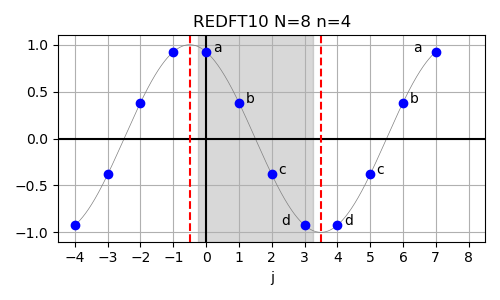
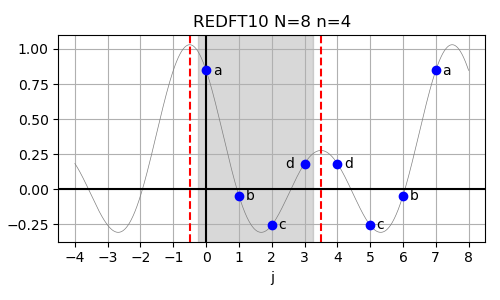
fixed REDFT00 and REDFT10 examples

diff --git a/img/plot_1d_redft_examples.py b/img/plot_1d_redft_examples.py
@@ -11,8 +11,6 @@ from numpy.random import default_rng
 import matplotlib.pyplot as plt
 from matplotlib.ticker import MaxNLocator
 
-#%% REDFT00 
-
 # compute the REDFT00 as defined in the FFTW reference manual
 def redft00(arr):
     n = len(arr)
@@ -24,14 +22,53 @@ def redft00(arr):
             out[k] += 2.0 * arr[j] * np.cos(np.pi*j*k/(n-1))
     return out
 
+# compute the REDFT10 as defined in the FFTW reference manual
+def redft10(arr):
+    n = len(arr)
+    out = np.zeros([n])
+    for k in range(n):
+        for j in range(n):
+            out[k] += 2.0 * arr[j] * np.cos(np.pi*(j+0.5)*k/n)
+    return out
+
+# compute the REDFT01 as defined in the FFTW reference manual
+def redft01(arr):
+    n = len(arr)
+    out = np.zeros([n])
+    for k in range(n):
+        out[k] += arr[0]
+        for j in range(1, n):
+            out[k] += 2.0 * arr[j] * np.cos(np.pi*j*(k+0.5)/n)
+    return out
+
 # evaluate the REDFT00 at all points given in x
 def eval_redft00(arr, x):
+    n = len(arr)
     y = np.zeros_like(x)
     y += arr[0]
     for j in range(1,n-1):
         y += 2.0*arr[j]*np.cos(np.pi*j*x)
     y += arr[-1]*np.cos(np.pi*(n-1)*x)
     return y
+
+# evaluate the REDFT10 at all points given in x
+def eval_redft10(arr, x):
+    n = len(arr)
+    y = np.zeros_like(x)
+    for j in range(n):
+        y += 2.0*arr[j]*np.cos(np.pi*(j+0.5)*x)
+    return y
+
+# evaluate the REDFT01 at all points given in x
+def eval_redft01(arr, x):
+    n = len(arr)
+    y = np.zeros_like(x)
+    y += arr[0]
+    for j in range(1, n):
+        y += 2.0*arr[j]*np.cos(np.pi*j*(x+0.5/n))
+    return y
+
+#%% REDFT00 
 
 # input size for REDFT00
 n = 5
@@ -41,22 +78,22 @@ N = 2*(n-1)
 
 # random Fourier coefficients
 rng = default_rng(seed=42)
-r2r_in = rng.uniform(size=n)
+r2r_out = rng.uniform(size=n)
 
-# compute output of REDFT00
-r2r_out = redft00(r2r_in)/n
+# compute input of REDFT00 by REDFT00 (the inverse of REDFT00)
+r2r_in = redft00(r2r_out)/n
 
 # extend to equivalent DFT size
-full_out_x = np.arange(n, 2*n-2)
-full_out_y = np.zeros([n-2])
-for i in range(n-2):
+full_in_x = np.arange(n, N)
+full_in_y = np.zeros([N-n])
+for i in range(N-n):
     # even symmetry around n-1
-    full_out_y[i] = r2r_out[-i-2]
+    full_in_y[i] = r2r_in[-i-2]
 
 # sample at finer intervals
 nFine = 1024
 x = np.linspace(-n+1, N, nFine)
-y = eval_redft00(r2r_in, x/(n-1))/n
+y = eval_redft00(r2r_out, x/(n-1))/n
 
 plt.figure(figsize=(5,3))
 
@@ -71,18 +108,18 @@ plt.axvline(n-1, ls='--', color='r')
 # highlight array contents
 plt.axvspan(0-0.25, (n-1)+0.25, alpha=0.3, color='gray')
 
-# plot actual REDFT00 output
-plt.plot(r2r_out, 'bo')
+# plot actual REDFT00 input
+plt.plot(r2r_in, 'bo')
 
 # label individual points
 for i in range(n):
-    plt.text(i+0.2, r2r_out[i]-0.03, chr(ord("a")+i))
+    plt.text(i+0.2, r2r_in[i]-0.03, chr(ord("a")+i))
 
 # plot data extending REDFT00 to full DFT
-plt.plot(full_out_x, full_out_y, 'bo')
+plt.plot(full_in_x, full_in_y, 'bo')
 
 for i in range(n-2):
-    plt.text(full_out_x[i]+0.2, full_out_y[i]-0.03, chr(ord("a")+(n-2-i)))
+    plt.text(full_in_x[i]+0.2, full_in_y[i]-0.03, chr(ord("a")+(n-2-i)))
 
 # only integer xaxis ticks at intervals of 1
 plt.gca().xaxis.set_major_locator(MaxNLocator(steps=(1,10), integer=True))
@@ -95,10 +132,34 @@ plt.tight_layout()
 plt.savefig("redft00.png")
 
 #%% REDFT10
-n = int(N/2)
+n = 4
+
+# logical size of equivalent DFT (for REDFT10)
+N = 2*n
+
+# random Fourier coefficients
+rng = default_rng(seed=40)
+r2r_out = rng.uniform(size=n)
+
+# compute input of REDFT10 by using REDFT01 (the inverse of REDFT10)
+r2r_in = redft01(r2r_out)/n
+
+# extend to equivalent DFT size
+full_in_x = np.arange(n, N)
+full_in_y = np.zeros([N-n])
+for i in range(N-n):
+    # even symmetry around n-0.5
+    full_in_y[i] = r2r_in[-i-1]
+
+# sample "inputs" at finer intervals
+nFine = 1024
+x = np.linspace(-n, N, nFine)
+y = eval_redft01(r2r_out, x/n)/n
 
 plt.figure(figsize=(5,3))
-plt.plot(t_ref[int(n_ref/N/2):-int(n_ref/N/2)]*N-0.5, y_ref[int(n_ref/N/2):-int(n_ref/N/2)], '-', color='gray', linewidth=0.5)
+
+plt.plot(x, y, '-', color='gray', linewidth=0.5)
+
 plt.axhline(0, ls='-', color='k')
 plt.axvline(0, ls='-', color='k')
 
@@ -109,17 +170,17 @@ plt.axvline(n-0.5, ls='--', color='r')
 # highlight array contents
 plt.axvspan(0-0.25, (n-1)+0.25, alpha=0.3, color='gray')
 
-plt.plot(t, y1, 'bo')
+plt.plot(r2r_in, 'bo')
 
-for i in range(N):
-    if i==n-1:
-        plt.text(t[int(i+N/2)]-0.7, y1[int(i+N/2)], chr(ord("a")+i))
-    elif i==N-1:
-        plt.text(t[int(i+N/2)]-0.7, y1[int(i+N/2)], chr(ord("a")+(N-i-1)))
-    elif i>=n:
-        plt.text(t[int(i+N/2)]+0.2, y1[int(i+N/2)], chr(ord("a")+(N-i-1)))
-    else:
-        plt.text(t[int(i+N/2)]+0.2, y1[int(i+N/2)], chr(ord("a")+i))
+# label individual points
+for i in range(n-1):
+    plt.text(i+0.2, r2r_in[i]-0.03, chr(ord("a")+i))
+plt.text(n-1-0.6, r2r_in[n-1]-0.03, chr(ord("a")+n-1))
+
+plt.plot(full_in_x, full_in_y, 'bo')
+
+for i in range(n):
+    plt.text(full_in_x[i]+0.2, full_in_y[i]-0.03, chr(ord("a")+(n-1-i)))
 
 # only integer xaxis ticks
 plt.gca().xaxis.set_major_locator(MaxNLocator(steps=(1,10), integer=True))
@@ -133,67 +194,67 @@ plt.savefig("redft10.png")
 
 #%% REDFT01
 
-plt.figure(figsize=(5,3))
-plt.plot(t_ref*N, y_ref_2, '-', color='gray', linewidth=0.5)
-plt.axhline(0, ls='-', color='k')
-plt.axvline(0, ls='-', color='k')
+# plt.figure(figsize=(5,3))
+# plt.plot(t_ref*N, y_ref_2, '-', color='gray', linewidth=0.5)
+# plt.axhline(0, ls='-', color='k')
+# plt.axvline(0, ls='-', color='k')
 
-# symmetry lines
-plt.axvline(0, ls='--', color='r')
-plt.axvline(n, ls='--', color='b')
+# # symmetry lines
+# plt.axvline(0, ls='--', color='r')
+# plt.axvline(n, ls='--', color='b')
 
-# highlight array contents
-plt.axvspan(0-0.25, (n-1)+0.25, alpha=0.3, color='gray')
+# # highlight array contents
+# plt.axvspan(0-0.25, (n-1)+0.25, alpha=0.3, color='gray')
 
-plt.plot(t, y2, 'bo')
+# plt.plot(t, y2, 'bo')
 
-for i in range(N):
-    if i>n:
-        plt.text(t[int(i+N/2)]+0.2, y2[int(i+N/2)], "-"+chr(ord("a")+(N-i)))
-    elif i<n:
-        plt.text(t[int(i+N/2)]+0.2, y2[int(i+N/2)], chr(ord("a")+i))
+# for i in range(N):
+#     if i>n:
+#         plt.text(t[int(i+N/2)]+0.2, y2[int(i+N/2)], "-"+chr(ord("a")+(N-i)))
+#     elif i<n:
+#         plt.text(t[int(i+N/2)]+0.2, y2[int(i+N/2)], chr(ord("a")+i))
 
-# only integer xaxis ticks
-plt.gca().xaxis.set_major_locator(MaxNLocator(steps=(1,10), integer=True))
-plt.xlim((-4.5, 8.5))
+# # only integer xaxis ticks
+# plt.gca().xaxis.set_major_locator(MaxNLocator(steps=(1,10), integer=True))
+# plt.xlim((-4.5, 8.5))
 
-plt.grid(True)
-plt.xlabel("j")
-plt.title("REDFT01 N=%d n=%d"%(N, n))
-plt.tight_layout()
-plt.savefig("redft01.png")
+# plt.grid(True)
+# plt.xlabel("j")
+# plt.title("REDFT01 N=%d n=%d"%(N, n))
+# plt.tight_layout()
+# plt.savefig("redft01.png")
 
 
 #%% REDFT11
 
-plt.figure(figsize=(5,3))
-plt.plot(t_ref[int(n_ref/N/2):-int(n_ref/N/2)]*N-0.5, y_ref_2[int(n_ref/N/2):-int(n_ref/N/2)], '-', color='gray', linewidth=0.5)
-plt.axhline(0, ls='-', color='k')
-plt.axvline(0, ls='-', color='k')
+# plt.figure(figsize=(5,3))
+# plt.plot(t_ref[int(n_ref/N/2):-int(n_ref/N/2)]*N-0.5, y_ref_2[int(n_ref/N/2):-int(n_ref/N/2)], '-', color='gray', linewidth=0.5)
+# plt.axhline(0, ls='-', color='k')
+# plt.axvline(0, ls='-', color='k')
 
-# symmetry lines
-plt.axvline(-0.5, ls='--', color='r')
-plt.axvline(n-0.5, ls='--', color='b')
+# # symmetry lines
+# plt.axvline(-0.5, ls='--', color='r')
+# plt.axvline(n-0.5, ls='--', color='b')
 
-# highlight array contents
-plt.axvspan(0-0.25, (n-1)+0.25, alpha=0.3, color='gray')
+# # highlight array contents
+# plt.axvspan(0-0.25, (n-1)+0.25, alpha=0.3, color='gray')
 
-plt.plot(t, y3, 'bo')
+# plt.plot(t, y3, 'bo')
 
-for i in range(N):
-    if i==n-1:
-        plt.text(t[int(i+N/2)]-0.6, y3[int(i+N/2)], chr(ord("a")+i))
-    elif i>=n:
-        plt.text(t[int(i+N/2)]+0.2, y3[int(i+N/2)], "-"+chr(ord("a")+(N-i-1)))
-    else:
-        plt.text(t[int(i+N/2)]+0.2, y3[int(i+N/2)], chr(ord("a")+i))
+# for i in range(N):
+#     if i==n-1:
+#         plt.text(t[int(i+N/2)]-0.6, y3[int(i+N/2)], chr(ord("a")+i))
+#     elif i>=n:
+#         plt.text(t[int(i+N/2)]+0.2, y3[int(i+N/2)], "-"+chr(ord("a")+(N-i-1)))
+#     else:
+#         plt.text(t[int(i+N/2)]+0.2, y3[int(i+N/2)], chr(ord("a")+i))
 
-# only integer xaxis ticks
-plt.gca().xaxis.set_major_locator(MaxNLocator(steps=(1,10), integer=True))
-plt.xlim((-4.5, 8.5))
+# # only integer xaxis ticks
+# plt.gca().xaxis.set_major_locator(MaxNLocator(steps=(1,10), integer=True))
+# plt.xlim((-4.5, 8.5))
 
-plt.grid(True)
-plt.xlabel("j")
-plt.title("REDFT11 N=%d n=%d"%(N, n))
-plt.tight_layout()
-plt.savefig("redft11.png")
+# plt.grid(True)
+# plt.xlabel("j")
+# plt.title("REDFT11 N=%d n=%d"%(N, n))
+# plt.tight_layout()
+# plt.savefig("redft11.png")
